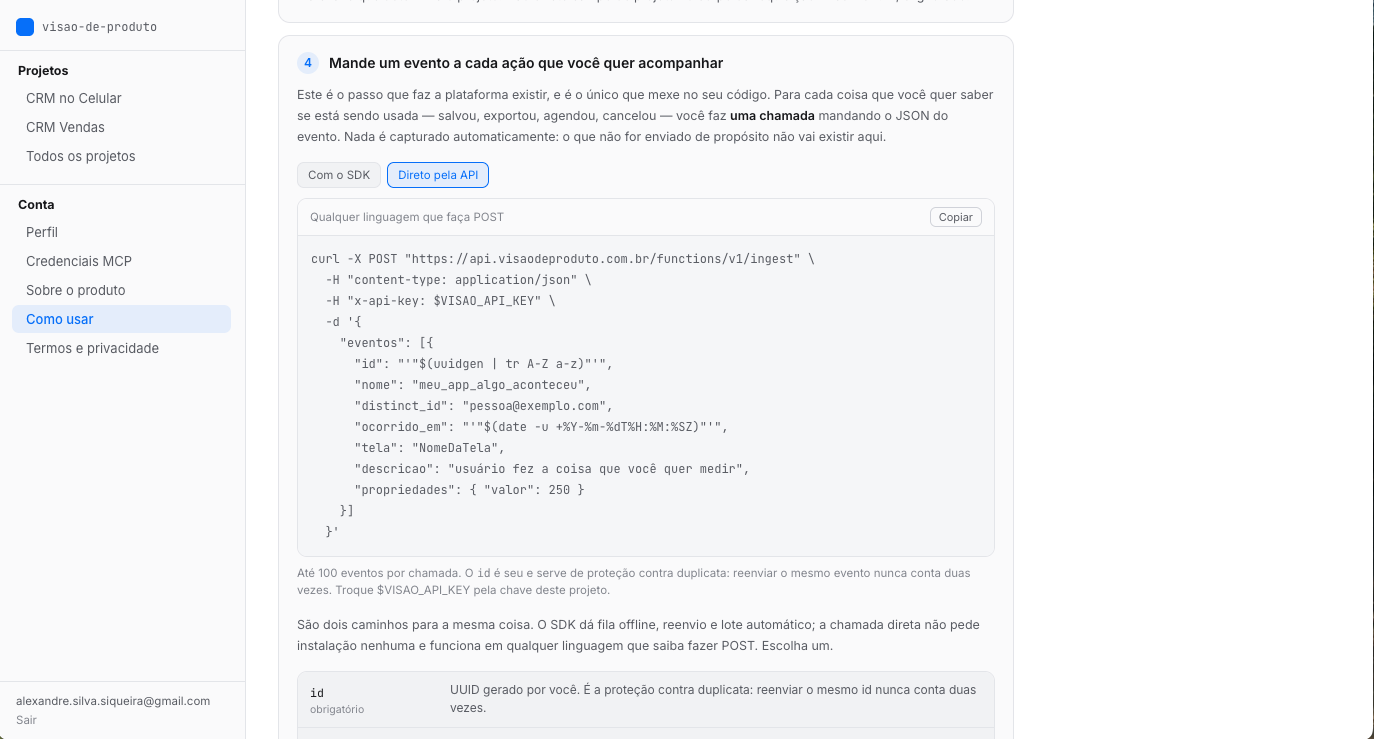
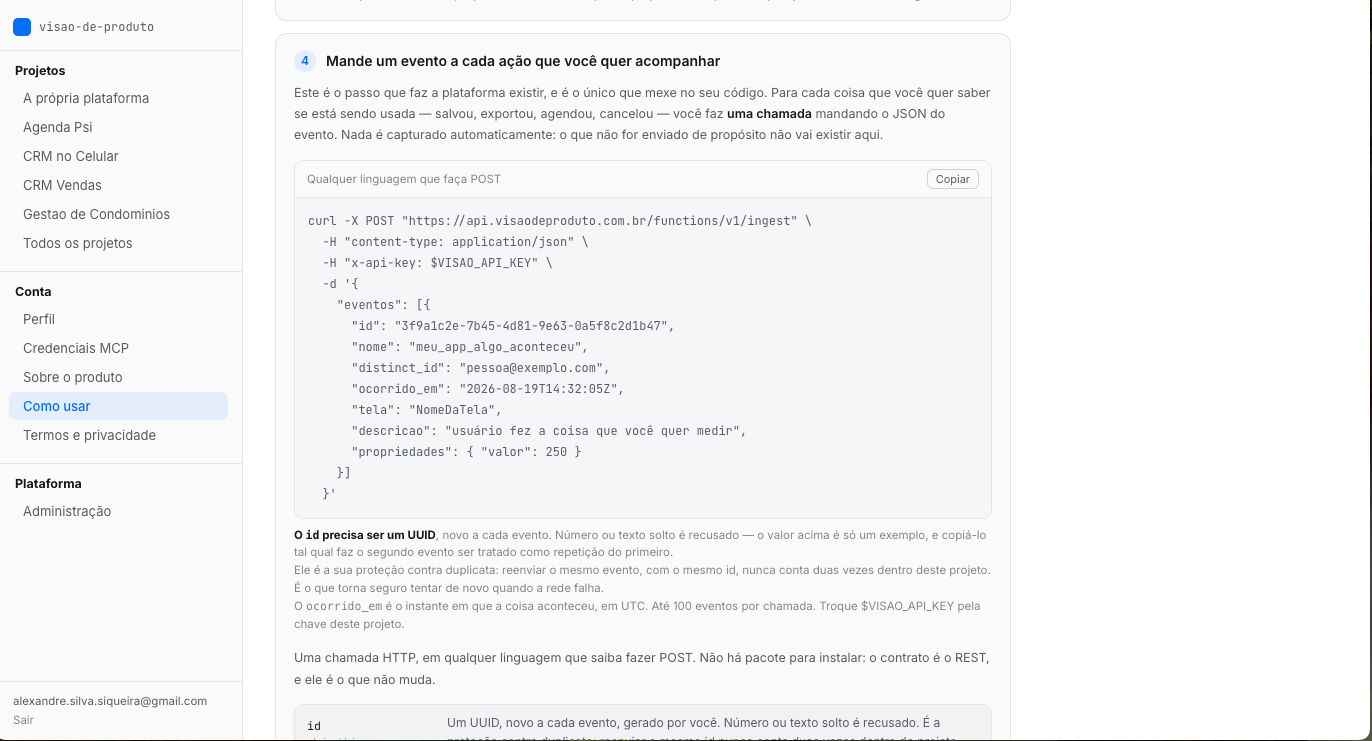
Troca o print do passo 2 do site pelo estado real da tela Como usar
O print antigo mostrava a aba "Com o SDK", que saiu do app, e o exemplo
de id com uuidgen, que virou um UUID literal. A imagem contradizia o
texto ao lado desde ontem.

diff --git a/site-visao-de-produto/publico/index.html b/site-visao-de-produto/publico/index.html
@@ -273,7 +273,7 @@ a:hover{color:var(--text)}
         </div>
         <figure data-dc-tpl="84" style="margin: 0px;">
           <div data-dc-tpl="85" style="border-radius: 12px; overflow: hidden; border: 1px solid var(--line); background: var(--surface); box-shadow: var(--shadow);">
-            <img data-dc-tpl="86" src="assets/codigo.png" alt="Tela Como usar mostrando as abas Com o SDK e Direto pela API, com um exemplo de chamada curl enviando um evento com nome, descrição, tela e propriedades">
+            <img data-dc-tpl="86" src="assets/codigo.png" alt="Tela Como usar da plataforma, com o exemplo pronto da chamada que manda um evento: o endereço, a chave do projeto e o JSON com id, nome, pessoa, data, tela e descrição">
           </div>
         </figure>
       </div>
